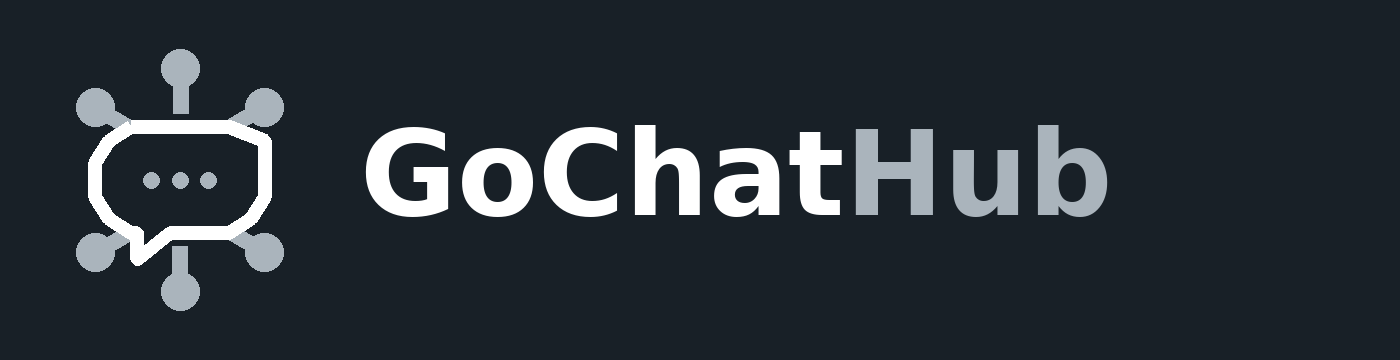
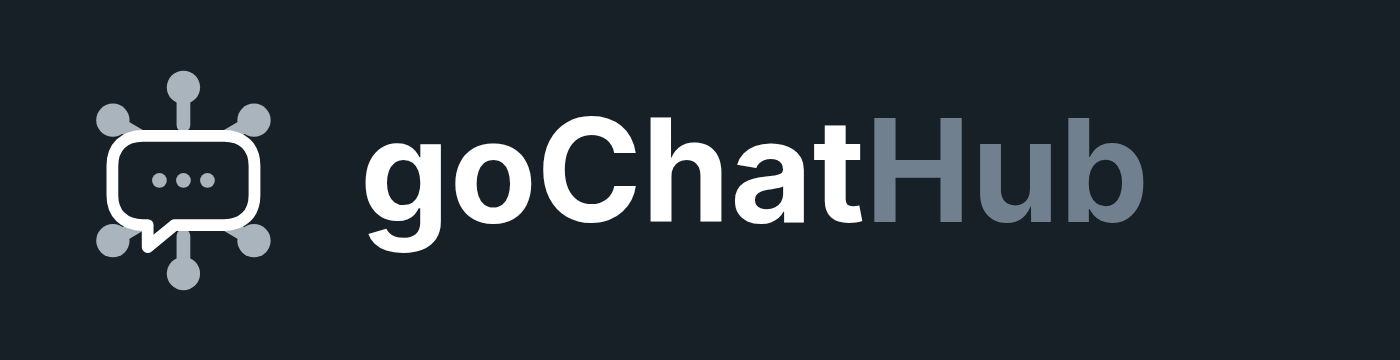
Launcher foreground in the adaptive safe zone; goChatHub display casing
- Foreground art rescaled to the 66/108 safe zone (264px glyph on the
  432 layer) so aggressive launcher masks stop shaving the outer nodes;
  source kept as svg/gochathub-icon-foreground.svg in the logo pack
- Launcher label, push clientName and fallback title use goChatHub
- README wordmark rasters refreshed from the pack

Changed region(s): [[0.2457, 0.3056, 0.8293, 0.7028], [0.0307, 0.1222, 0.215, 0.8556]]

diff --git a/app/src/main/java/com/gochathub/gochathubclient/push/Push.kt b/app/src/main/java/com/gochathub/gochathubclient/push/Push.kt
@@ -79,7 +79,7 @@ public object Push {
                     val response = Hub.client.registerDevice(
                         RegisterDeviceRequest(
                             platform = "android",
-                            clientName = "GoChatHub",
+                            clientName = "goChatHub",
                             clientVersion = "1.0.0",
                             pushRegistration = registration
                         )
@@ -146,7 +146,7 @@ public object Push {
         try {
             val message = Hub.client.message(messageId)
             val room = Hub.roomById(roomId) ?: Hub.client.room(roomId).also { Hub.rememberRoom(it) }
-            val title = room.name ?: message.author?.displayName ?: "GoChatHub"
+            val title = room.name ?: message.author?.displayName ?: "goChatHub"
             if (message.deletedAt != null) return
             show(context, title, message.body, roomId)
         } catch (_: Exception) { /* offline: resync fills it in */ }
